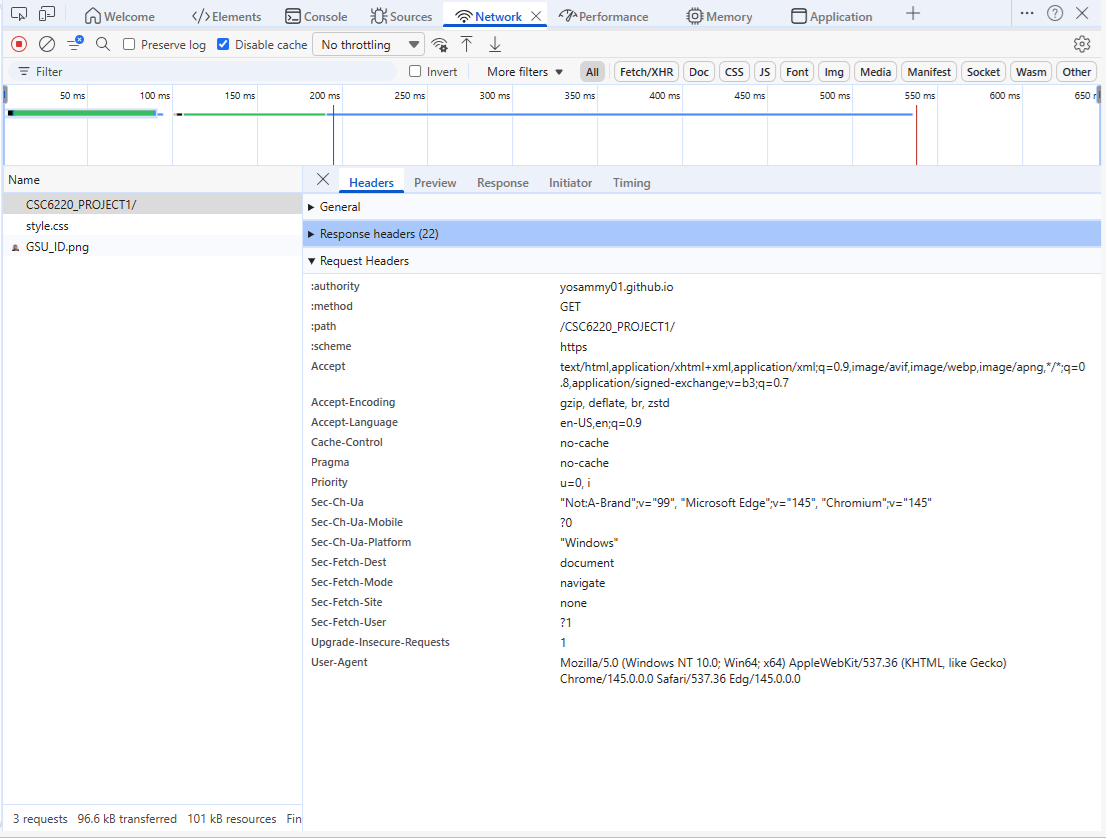
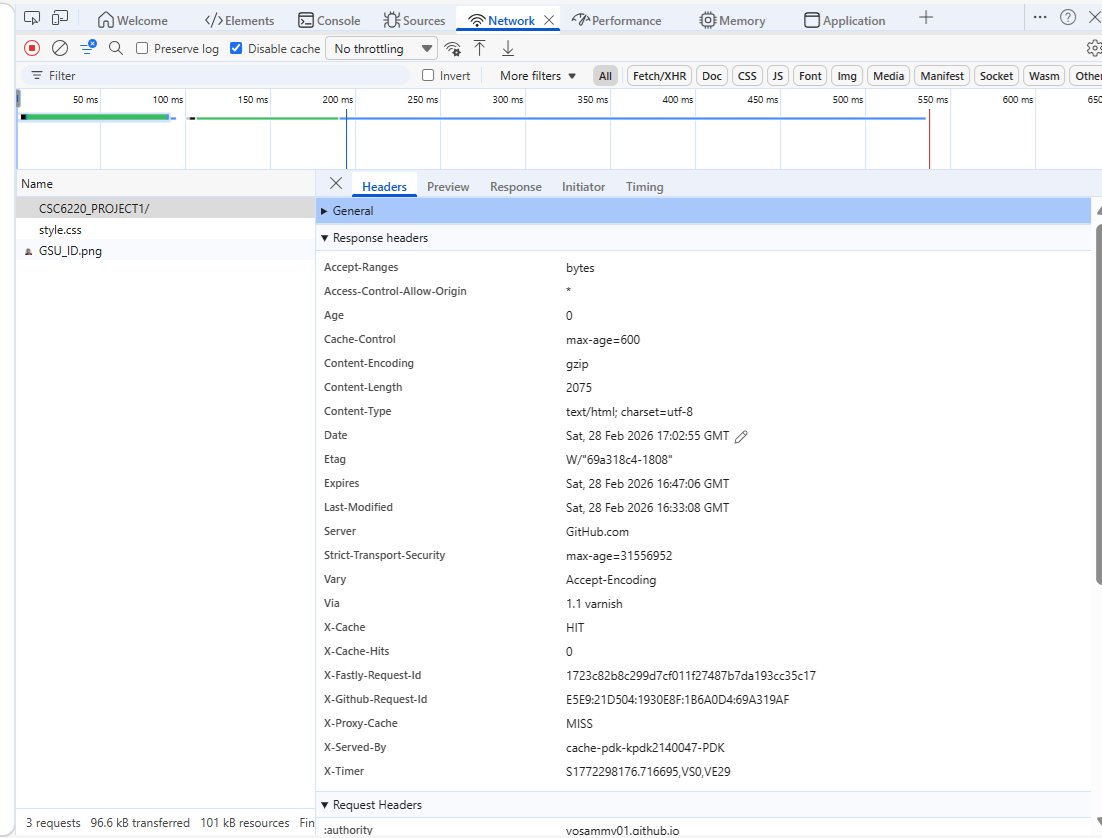
making more readable
making more readable and correcting the image files - they were labeled wrong.

Changed region(s): [[0.0, 0.0, 1.0, 1.0], [0.7096, 0.0, 0.8022, 0.031], [0.6171, 0.0, 0.6788, 0.031]]

diff --git a/index.html b/index.html
@@ -99,9 +99,16 @@ Reply from 2606:50c0:8003::153: time=9ms
                 </pre>
                 <h2>• Protocols (HTTP vs HTTPS, headers, status codes)</h2>
                 <pre>
-1. This web site requires HTTPS protocol to be hosted on GitHub Pages, which means that the communication between the browser and the server is encrypted using SSL/TLS. This can be verified by the "https://" prefix in the Request URL.
-2. When navigating to the site, the server returns a 200 OK status code. This indicates that the client's request was successfully received, understood, and processed, and that the server has successfully delivered the requested index.html file. When refreshing the site, the server returns a 304 Not Modified status code. This indicates that the client's cached version of the index.html file is still valid and has not been modified since the last request, so the server does not need to resend the file.
-3. The HTTP headers for the request and response can be viewed in the browser's developer tools. The request headers include information such as the User-Agent (which identifies the browser), Accept (which specifies the types of content the client can process), and Host (which specifies the domain being requested). The response headers include information such as Content-Type (which indicates the type of content being returned), Content-Length (which indicates the size of the response body), and Server (which identifies the server software).
+1. This web site requires HTTPS protocol to be hosted on GitHub Pages, which means that the communication between the browser and the server
+ is encrypted using SSL/TLS. This can be verified by the "https://" prefix in the Request URL.
+2. When navigating to the site, the server returns a 200 OK status code. This indicates that the client's request was successfully received, 
+understood, and processed, and that the server has successfully delivered the requested index.html file. When refreshing the site, the server 
+returns a 304 Not Modified status code. This indicates that the client's cached version of the index.html file is still valid and has not been 
+modified since the last request, so the server does not need to resend the file.
+3. The HTTP headers for the request and response can be viewed in the browser's developer tools. The request headers include information such 
+as the User-Agent (which identifies the browser), Accept (which specifies the types of content the client can process), and Host (which specifies 
+the domain being requested). The response headers include information such as Content-Type (which indicates the type of content being returned), 
+Content-Length (which indicates the size of the response body), and Server (which identifies the server software).
                 </pre>
                 <p><img src="General_Header.png" alt="General" class="profile-pic"></p>
                 <p><img src="Request_Header.png" alt="Request" class="profile-pic"></p>
